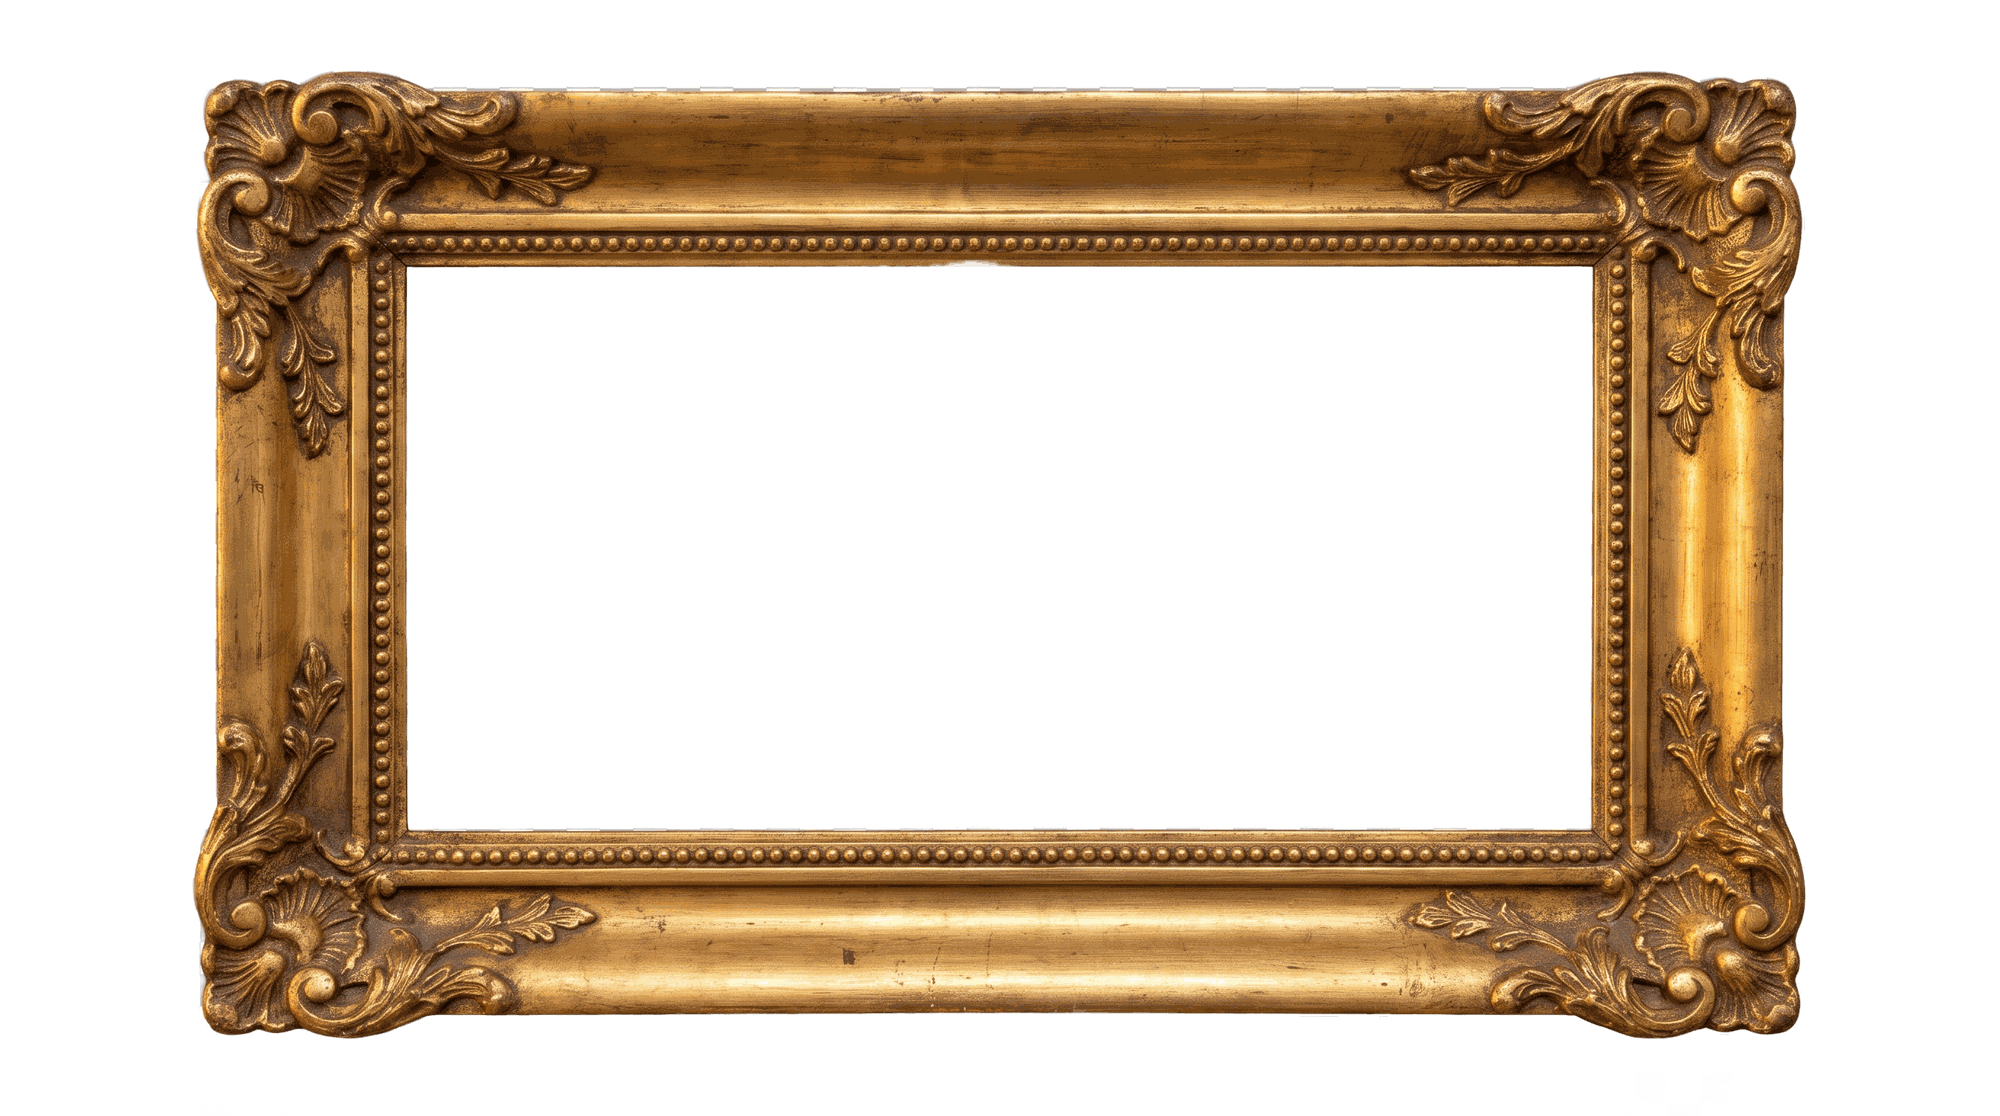
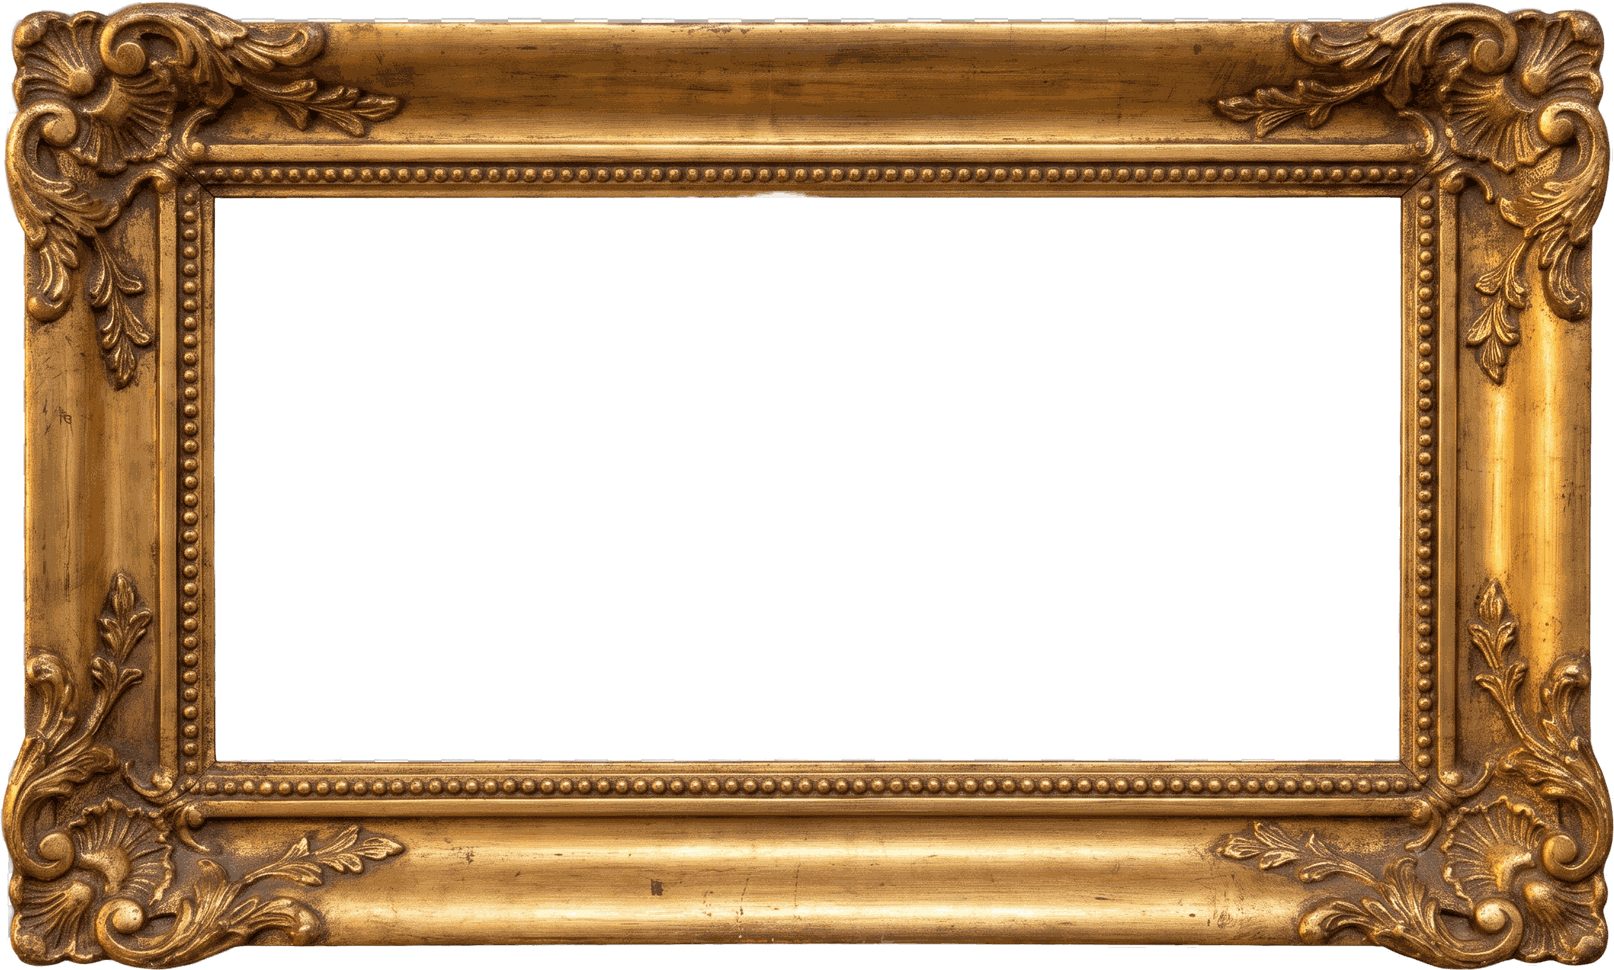
The gilded frame becomes a 9-slice asset (#12)
The two carved frames have been sitting in public/frames/ since they
were generated, unused: every painting on the site was hanging in a
CSS linear-gradient, and ADR-0004's whole point — that the frame is a
real asset laid over the artwork, never painted into it — was only
half kept. This is the half that was missing.

Gated on file presence like everything else here. frameAvailable()
requires both assets, because a carved landscape frame beside a
gradient portrait frame reads as a mistake where two gradients read as
a style, and one attribute on <main> switches the whole site at once.
Remove the files and the site renders exactly as it did before.

The assets are trimmed to the carving. They were generated with wide
transparent margins, and border-image measures its slices from the
edge of the file, so the margins had to go before the numbers meant
anything. The slice values committed here are measured, not guessed:
the inset from each trimmed edge to the aperture, 198/215/211/215
landscape and 333/305/297/305 portrait.

Every border-width grew, and that is the part worth knowing. border-
image squeezes each carved corner into exactly border-width pixels, so
at the old widths the acanthus collapsed into a dark smudge while the
straight mouldings still read fine — the asset looked worse than the
gradient it replaced. 18px becomes FRAME_WIDTH_PX = 34 for the
cinematic frames, and the hung and portrait frames grew in proportion,
[…]

diff --git a/lib/choreography.test.ts b/lib/choreography.test.ts
@@ -1,6 +1,7 @@
 import { test, describe } from 'node:test'
 import assert from 'node:assert/strict'
 import {
+  FRAME_WIDTH_PX,
   openingChoreography,
   openingRest,
   openingPeakProgress,
@@ -38,7 +39,7 @@ describe('openingChoreography — progress 0 (top of the scroll, hung and framed
   test('the frame is fully present', () => {
     const state = choreograph(0)
     assert.equal(state.frameOpacity, 1)
-    assert.equal(state.frameWidthPx, 18)
+    assert.equal(state.frameWidthPx, FRAME_WIDTH_PX)
   })
 
   test('the gallery wall is fully present', () => {
@@ -232,7 +233,7 @@ describe('openingChoreography — reduced motion', () => {
       scale: 1,
       wallOpacity: 1,
       frameOpacity: 1,
-      frameWidthPx: 18,
+      frameWidthPx: FRAME_WIDTH_PX,
       copyOpacity: 1,
       labelOpacity: 0,
     })
@@ -265,9 +266,9 @@ describe('enteringChoreography — at rest, before and after the approach', () =
 
   test('the frame is fully present at both ends of the track', () => {
     assert.equal(enter(0).frameOpacity, 1)
-    assert.equal(enter(0).frameWidthPx, 18)
+    assert.equal(enter(0).frameWidthPx, FRAME_WIDTH_PX)
     assert.equal(enter(1).frameOpacity, 1)
-    assert.equal(enter(1).frameWidthPx, 18)
+    assert.equal(enter(1).frameWidthPx, FRAME_WIDTH_PX)
   })
 
   test('the copy is fully hidden at both ends of the track', () => {
@@ -429,7 +430,7 @@ describe('enteringChoreography — reduced motion', () => {
       scale: 1,
       wallOpacity: 1,
       frameOpacity: 1,
-      frameWidthPx: 18,
+      frameWidthPx: FRAME_WIDTH_PX,
       copyOpacity: 1,
       labelOpacity: 1,
     }
@@ -454,7 +455,7 @@ describe('enteringChoreography — recede: false — progress 0 (hung and framed
 
   test('the frame is fully present', () => {
     assert.equal(enterHold(0).frameOpacity, 1)
-    assert.equal(enterHold(0).frameWidthPx, 18)
+    assert.equal(enterHold(0).frameWidthPx, FRAME_WIDTH_PX)
   })
 
   test('the copy is fully hidden', () => {
@@ -610,7 +611,7 @@ describe('enteringChoreography — recede: false — clamping and reduced motion
       scale: 1,
       wallOpacity: 1,
       frameOpacity: 1,
-      frameWidthPx: 18,
+      frameWidthPx: FRAME_WIDTH_PX,
       copyOpacity: 1,
       labelOpacity: 1,
     }
@@ -658,7 +659,7 @@ describe('closingChoreography — at and after closingRestProgress (receded to r
   test('the frame, wall and label are all fully present', () => {
     const state = close(closingRestProgress)
     assert.equal(state.frameOpacity, 1)
-    assert.equal(state.frameWidthPx, 18)
+    assert.equal(state.frameWidthPx, FRAME_WIDTH_PX)
     assert.equal(state.wallOpacity, 1)
     assert.equal(state.labelOpacity, 1)
   })
@@ -722,7 +723,7 @@ describe('closingChoreography — reduced motion', () => {
       scale: 1,
       wallOpacity: 1,
       frameOpacity: 1,
-      frameWidthPx: 18,
+      frameWidthPx: FRAME_WIDTH_PX,
       labelOpacity: 1,
     })
   })

diff --git a/lib/choreography.ts b/lib/choreography.ts
@@ -40,10 +40,23 @@ const inkStart = 0.88
  * the ink crossfade. One function so retuning one doesn't silently desync
  * the other.
  */
+/**
+ * The frame's resting thickness, in CSS pixels.
+ *
+ * It is a visual constant, not a free parameter. The gilt frame is a 9-slice
+ * asset (issue #12) whose corners carry acanthus carving, and border-image
+ * squeezes each corner into exactly this many pixels. At 18 the carving
+ * collapsed into a dark smudge while the straight edges still read fine —
+ * the corners have to be given room or the asset is worse than the gradient
+ * it replaced. Raising this is what buys that room; the ramps below animate
+ * to and from it, and the tests assert against it rather than a literal.
+ */
+export const FRAME_WIDTH_PX = 34
+
 function approachCrossfade(p: number) {
   return {
     frameOpacity: ramp(p, 0.28, 0.52, 1, 0),
-    frameWidthPx: ramp(p, 0.24, 0.52, 18, 0),
+    frameWidthPx: ramp(p, 0.24, 0.52, FRAME_WIDTH_PX, 0),
     copyOpacity: ramp(p, 0.42, 0.65, 0, 1),
     labelOpacity: ramp(p, 0.04, 0.2, 1, 0),
   }
@@ -63,7 +76,7 @@ export const openingRest: OpeningState = {
   scale: 1,
   wallOpacity: 1,
   frameOpacity: 1,
-  frameWidthPx: 18,
+  frameWidthPx: FRAME_WIDTH_PX,
   copyOpacity: 1,
   labelOpacity: 0,
 }
@@ -120,7 +133,7 @@ export const enteringRest: EnteringState = {
   scale: 1,
   wallOpacity: 1,
   frameOpacity: 1,
-  frameWidthPx: 18,
+  frameWidthPx: FRAME_WIDTH_PX,
   copyOpacity: 1,
   labelOpacity: 1,
 }
@@ -188,7 +201,7 @@ export function enteringChoreography(
     scale: p < 0.5 ? ramp(p, 0, 0.5, 1, peak) : ramp(p, 0.5, 1, peak, 1),
     wallOpacity: 1,
     frameOpacity: p < 0.5 ? ramp(p, 0.14, 0.26, 1, 0) : ramp(p, 0.74, 0.86, 0, 1),
-    frameWidthPx: p < 0.5 ? ramp(p, 0.12, 0.26, 18, 0) : ramp(p, 0.74, 0.88, 0, 18),
+    frameWidthPx: p < 0.5 ? ramp(p, 0.12, 0.26, FRAME_WIDTH_PX, 0) : ramp(p, 0.74, 0.88, 0, FRAME_WIDTH_PX),
     copyOpacity: p < 0.5 ? ramp(p, 0.21, 0.325, 0, 1) : ramp(p, 0.675, 0.79, 1, 0),
     labelOpacity: p < 0.5 ? ramp(p, 0, 0.2, 1, 0) : ramp(p, 0.8, 1, 0, 1),
   }
@@ -212,7 +225,7 @@ export const closingRest: ClosingState = {
   scale: 1,
   wallOpacity: 1,
   frameOpacity: 1,
-  frameWidthPx: 18,
+  frameWidthPx: FRAME_WIDTH_PX,
   labelOpacity: 1,
 }
 
@@ -273,7 +286,7 @@ export function closingChoreography(
     scale: ramp(p, 0, closingRestProgress, peak, 1),
     wallOpacity: ramp(p, 0.19, 0.53, 0, 1),
     frameOpacity: ramp(p, 0.33, 0.51, 0, 1),
-    frameWidthPx: ramp(p, 0.33, 0.53, 0, 18),
+    frameWidthPx: ramp(p, 0.33, 0.53, 0, FRAME_WIDTH_PX),
     labelOpacity: ramp(p, 0.42, 0.7, 0, 1),
   }
 }

diff --git a/components/museum.module.css b/components/museum.module.css
@@ -296,7 +296,7 @@
   position: relative;
   width: 100%;
   aspect-ratio: 16 / 9;
-  border: clamp(8px, 1.1vw, 16px) solid var(--frame);
+  border: clamp(12px, 1.7vw, 26px) solid var(--frame);
   border-image: linear-gradient(150deg, var(--frame-lit), var(--frame) 35%, #7a5f30 70%, var(--frame-lit)) 1;
   box-shadow: 0 40px 80px -30px rgba(0, 0, 0, 0.9);
   overflow: hidden;
@@ -340,7 +340,7 @@
 .portraitFrame {
   position: relative;
   aspect-ratio: 4 / 5;
-  border: clamp(5px, 0.6vw, 9px) solid var(--frame);
+  border: clamp(7px, 0.8vw, 12px) solid var(--frame);
   border-image: linear-gradient(150deg, var(--frame-lit), var(--frame) 40%, #7a5f30 75%, var(--frame-lit)) 1;
   box-shadow: 0 20px 40px -22px rgba(0, 0, 0, 0.9);
   overflow: hidden;
@@ -384,4 +384,27 @@
   color: var(--dust);
   font-size: var(--step--1);
   border-top: 1px solid rgba(244, 241, 234, 0.08);
+}
+
+/* Border widths above are chosen for these assets: border-image squeezes each
+   carved corner into exactly border-width pixels, so too thin turns acanthus
+   into a smudge. The portrait wall keeps the thinnest of the three because
+   its frames sit at ~150px wide in the grid, where the landscape frame's
+   weight would swamp the face.
+
+   The carved frame assets (ADR-0004, issue #12), applied as CSS 9-slice so the
+   corners keep their carving while the plain edge moulding stretches to any
+   aspect. Slice values are the measured inset from each edge of the trimmed
+   asset to the aperture, in source pixels.
+
+   These rules override the gradient border above, and only when
+   `frameAvailable()` has put the attribute on <main> — so a repository
+   without the assets renders exactly as it did before. */
+:global(main[data-frames]) .frame,
+:global(main[data-frames]) .hungFrame {
+  border-image: url('/frames/landscape.png') 198 215 211 215 stretch;
+}
+
+:global(main[data-frames]) .portraitFrame {
+  border-image: url('/frames/portrait.png') 333 305 297 305 stretch;
 }

diff --git a/app/page.tsx b/app/page.tsx
@@ -1,5 +1,5 @@
 import { scenes } from '@/content/scenes'
-import { imageAvailability, videoAvailable, realPhotoAvailable } from '@/lib/availability'
+import { imageAvailability, videoAvailable, realPhotoAvailable, frameAvailable } from '@/lib/availability'
 import { OpeningScene } from '@/components/OpeningScene'
 import { EnteringScene } from '@/components/EnteringScene'
 import { ClosingScene } from '@/components/ClosingScene'
@@ -11,8 +11,10 @@ export default function Home() {
     scenes.flatMap((scene) => scene.artworks.map((artwork) => [artwork.src, realPhotoAvailable(artwork.src)])),
   )
 
+  // One flag for the whole page rather than per painting: every frame on the
+  // site switches together or not at all (issue #12).
   return (
-    <main>
+    <main data-frames={frameAvailable() ? '' : undefined}>
       {scenes.map((scene) => {
         switch (scene.kind) {
           case 'opening':

diff --git a/lib/availability.ts b/lib/availability.ts
@@ -45,3 +45,16 @@ export function videoAvailable(src: string): boolean {
 export function realPhotoAvailable(src: string): boolean {
   return fs.existsSync(path.join(process.cwd(), 'public', realPhotoSrc(src)))
 }
+
+/**
+ * Whether the gilt frame assets have landed (issue #12). Both are needed
+ * together: a wall carrying a carved landscape frame and a gradient portrait
+ * frame reads as a mistake, where two gradient frames read as a style. With
+ * either missing, every frame falls back to the CSS gradient border, which
+ * is what the site shipped with and still looks deliberate.
+ */
+export function frameAvailable(): boolean {
+  return ['landscape', 'portrait'].every((name) =>
+    fs.existsSync(path.join(process.cwd(), 'public', 'frames', `${name}.png`)),
+  )
+}
